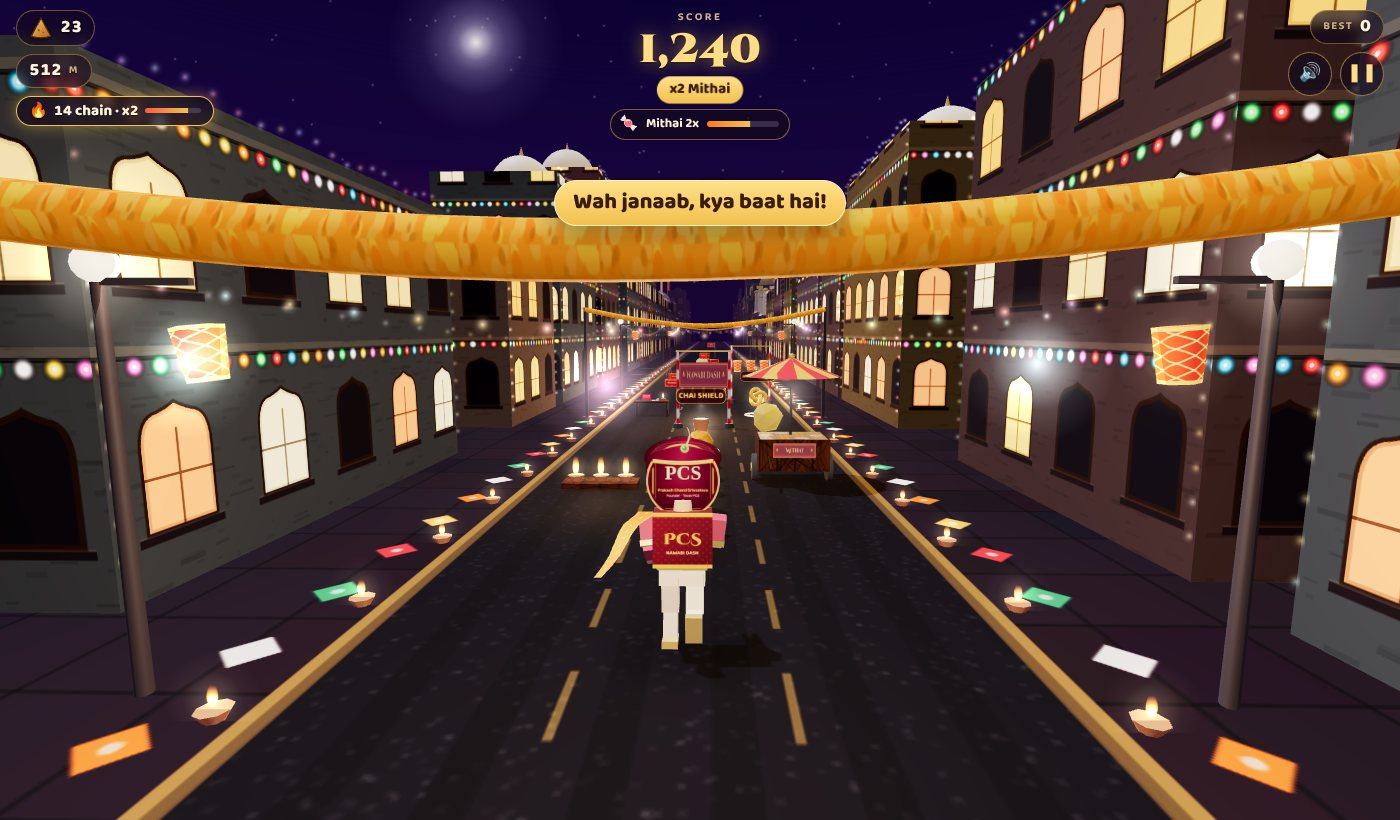
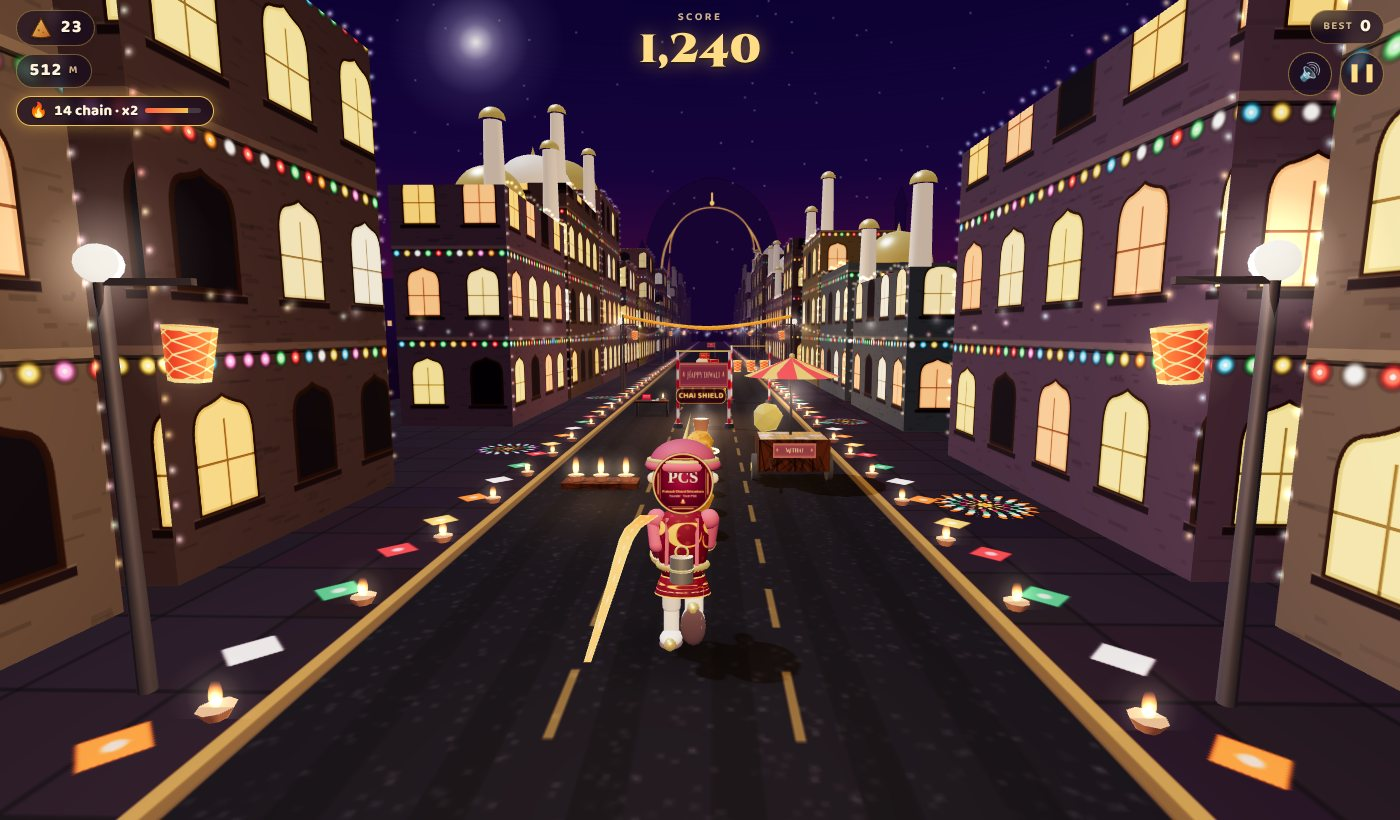
Replace the blocky runner with a Subway-Surfers-style figure
- Rounded capsule limbs, big round hands, chunky sneakers with gold
  toes, lathe-built kurta with kamarband and Nehru collar, shoulders,
  samosa tiffin on the back with straps.
- Real 3D head with ears and a 3D Nawabi turban (dome, bands, jewel,
  plume); the photo is now a face disc kept on the camera side of the
  head so it reads from behind, during the countdown and while rolling.
- Same rig joints, so run/jump/roll/tumble animation is unchanged.

Claude-Session: https://claude.ai/code/session_01JNQaHq431QuFRiAkLPThB5

diff --git a/js/entities.js b/js/entities.js
@@ -95,14 +95,24 @@
   }
 
   /* ====================== PLAYER ====================== */
+  // rounded limb: capsule hanging from a joint at the origin (next joint centre at y = -len)
+  function capsuleGeo(r, len, radial, caps) {
+    radial = radial || 14; caps = caps || 6;
+    const pts = [];
+    for (let i = 0; i <= caps; i++) { const a = -Math.PI / 2 + (i / caps) * (Math.PI / 2); pts.push(new THREE.Vector2(Math.cos(a) * r, -len / 2 + Math.sin(a) * r)); }
+    for (let i = 0; i <= caps; i++) { const a = (i / caps) * (Math.PI / 2); pts.push(new THREE.Vector2(Math.cos(a) * r, len / 2 + Math.sin(a) * r)); }
+    return new THREE.LatheGeometry(pts, radial);
+  }
+  function limbGeo(r, len) { return capsuleGeo(r, len).translate(0, -len / 2, 0); }
+
   ND.Player = class Player {
     constructor(scene) {
       shared();
-      this.scene = scene;
+      this.scene = scene; this.camera = null;
       this.group = new THREE.Group(); scene.add(this.group);          // lane x, jump y, lean/bank
       this.pivot = new THREE.Group(); this.pivot.position.y = 0.9; this.group.add(this.pivot);   // roll / tumble pivot
       this.body = new THREE.Group(); this.body.position.y = -0.9; this.pivot.add(this.body);     // feet origin, squash/stretch
-      this.rig = new THREE.Group(); this.body.add(this.rig);           // procedural meshes (hidden when a GLB model is used)
+      this.rig = new THREE.Group(); this.body.add(this.rig);           // procedural figure (hidden when a GLB model is used)
       this.onLand = null; this.model = null; this.mixer = null; this.headBone = null;
       this._v = new THREE.Vector3(); this._v2 = new THREE.Vector3();
       this.build();
@@ -112,47 +122,82 @@
       this.reset();
     }
 
+    // Subway-Surfers proportions: big head, chunky hands and shoes, rounded limbs
     build() {
       const T = ND.tex, Rg = this.rig;
       const std = (o) => new THREE.MeshStandardMaterial(o);
-      const sherwani = std({ map: T.sherwani(), roughness: 0.75 });
-      const sleeve = std({ color: 0x8f1f36, roughness: 0.75 });
-      const churidar = std({ color: 0xf1e4c8, roughness: 0.85 });
-      const skin = std({ color: 0xd9a066, roughness: 0.7 });
-      const mojari = std({ color: 0xf2c14e, roughness: 0.4, metalness: 0.5 });
-      const mesh = (geo, m, x, y, z, parent) => { const o = new THREE.Mesh(geo, m); o.position.set(x, y, z); o.castShadow = true; (parent || Rg).add(o); return o; };
-      const box = (w, h, d, m, x, y, z, parent) => mesh(new THREE.BoxGeometry(w, h, d), m, x, y, z, parent);
+      const kurtaTex = T.sherwani(); kurtaTex.wrapS = THREE.RepeatWrapping; kurtaTex.repeat.x = 2; kurtaTex.offset.x = 0.5; kurtaTex.needsUpdate = true;
+      const mat = {
+        kurta: std({ map: kurtaTex, roughness: 0.7, side: THREE.DoubleSide }),
+        maroon: std({ color: 0x8f1f36, roughness: 0.7 }),
+        turban: std({ color: 0x6a1628, roughness: 0.6 }),
+        cream: std({ color: 0xf1e4c8, roughness: 0.85 }),
+        skin: std({ color: 0xdba36f, roughness: 0.65 }),
+        shoe: std({ color: 0xf7eedc, roughness: 0.5 }),
+        sole: std({ color: 0x2a1a1f, roughness: 0.9 }),
+        steel: std({ color: 0xd4d8dd, roughness: 0.28, metalness: 0.85 }),
+        emerald: std({ color: 0x17a77a, roughness: 0.3, emissive: 0x0a5a40, emissiveIntensity: 0.4 })
+      };
+      const add = (geo, m, x, y, z, parent) => { const o = new THREE.Mesh(geo, m); o.position.set(x, y, z); o.castShadow = true; (parent || Rg).add(o); return o; };
       const pivotAt = (x, y, z, parent) => { const p = new THREE.Group(); p.position.set(x, y, z); (parent || Rg).add(p); return p; };
+      const torus = (r, t, seg) => new THREE.TorusGeometry(r, t, 10, seg || 28).rotateX(Math.PI / 2);
 
-      this.pelvis = box(0.62, 0.26, 0.38, churidar, 0, 0.98, 0);
-      this.torso = box(0.8, 0.74, 0.46, sherwani, 0, 1.47, 0);
-      box(0.68, 0.1, 0.42, M.gold, 0, 1.12, 0);
-      this.neck = mesh(new THREE.CylinderGeometry(0.12, 0.14, 0.16, 10), skin, 0, 1.9, 0);
+      // torso: a rounded kurta (lathe), flattened front-to-back
+      const torsoPts = [[0, 0.9], [0.26, 0.9], [0.3, 1.02], [0.345, 1.28], [0.36, 1.5], [0.335, 1.7], [0.24, 1.82], [0.1, 1.86], [0, 1.86]].map(([x, y]) => new THREE.Vector2(x, y));
+      const torsoGeo = new THREE.LatheGeometry(torsoPts, 22); torsoGeo.scale(1, 1, 0.74);
+      this.torso = add(torsoGeo, mat.kurta, 0, 0, 0);
+      const hemGeo = new THREE.CylinderGeometry(0.3, 0.39, 0.26, 20, 1, true); hemGeo.scale(1, 1, 0.74);
+      this.pelvis = add(hemGeo, mat.kurta, 0, 0.84, 0);
+      add(torus(0.33, 0.045).scale(1, 1, 0.74), M.gold, 0, 1.1, 0);          // kamarband
+      add(torus(0.15, 0.045, 20), mat.turban, 0, 1.85, 0);                     // nehru collar
+      this.neck = add(new THREE.CylinderGeometry(0.1, 0.11, 0.16, 12), mat.skin, 0, 1.9, 0);
+      for (const s of [-1, 1]) add(new THREE.SphereGeometry(0.14, 14, 10), mat.maroon, s * 0.36, 1.72, 0);   // shoulders
+      // samosa tiffin on the back
+      const tiffin = new THREE.Group(); tiffin.position.set(0, 1.12, 0.33); tiffin.scale.setScalar(0.92); Rg.add(tiffin);
+      add(new THREE.CylinderGeometry(0.17, 0.17, 0.16, 16), mat.steel, 0, -0.1, 0, tiffin);
+      add(new THREE.CylinderGeometry(0.17, 0.17, 0.16, 16), mat.steel, 0, 0.1, 0, tiffin);
+      add(new THREE.CylinderGeometry(0.178, 0.178, 0.02, 16), M.gold, 0, 0, 0, tiffin);
+      add(new THREE.TorusGeometry(0.09, 0.018, 8, 16), M.gold, 0, 0.24, 0, tiffin);
+      for (const s of [-1, 1]) { const strap = add(new THREE.BoxGeometry(0.05, 0.62, 0.035), mat.turban, s * 0.2, 1.46, 0.24); strap.rotation.x = -0.28; }
+      // legs: thigh, shin, chunky sneaker with a gold mojari toe
       this.legs = [-1, 1].map((s) => {
-        const hip = pivotAt(s * 0.17, 0.95, 0);
-        box(0.24, 0.5, 0.26, churidar, 0, -0.25, 0, hip);
-        const knee = pivotAt(0, -0.5, 0, hip);
-        box(0.2, 0.42, 0.22, churidar, 0, -0.21, 0, knee);
-        box(0.22, 0.1, 0.36, mojari, 0, -0.45, 0.06, knee);
+        const hip = pivotAt(s * 0.16, 0.93, 0);
+        add(limbGeo(0.13, 0.44), mat.cream, 0, 0, 0, hip);
+        const knee = pivotAt(0, -0.44, 0, hip);
+        add(limbGeo(0.11, 0.4), mat.cream, 0, 0, 0, knee);
+        const shoe = add(new THREE.SphereGeometry(1, 16, 12), mat.shoe, 0, -0.43, 0.07, knee); shoe.scale.set(0.16, 0.11, 0.27);
+        const sole = add(new THREE.SphereGeometry(1, 16, 12), mat.sole, 0, -0.5, 0.07, knee); sole.scale.set(0.165, 0.05, 0.275);
+        add(new THREE.SphereGeometry(0.085, 10, 8), M.gold, 0, -0.45, 0.3, knee);
         return { hip, knee };
       });
+      // arms: upper arm, forearm with gold cuff, big round hand
       this.arms = [-1, 1].map((s) => {
-        const sh = pivotAt(s * 0.5, 1.75, 0);
-        box(0.2, 0.38, 0.2, sleeve, 0, -0.19, 0, sh);
-        box(0.22, 0.08, 0.22, M.gold, 0, -0.36, 0, sh);
-        const el = pivotAt(0, -0.38, 0, sh);
-        box(0.17, 0.34, 0.17, sleeve, 0, -0.17, 0, el);
-        box(0.16, 0.14, 0.16, skin, 0, -0.4, 0, el);
-        sh.rotation.z = -s * 0.12;
+        const sh = pivotAt(s * 0.4, 1.7, 0);
+        add(limbGeo(0.1, 0.34), mat.maroon, 0, 0, 0, sh);
+        const el = pivotAt(0, -0.34, 0, sh);
+        add(limbGeo(0.09, 0.3), mat.maroon, 0, 0, 0, el);
+        add(torus(0.1, 0.03, 16), M.gold, 0, -0.27, 0, el);
+        add(new THREE.SphereGeometry(0.13, 14, 10), mat.skin, 0, -0.38, 0, el);
+        sh.rotation.z = -s * 0.14;
         return { sh, el };
       });
-      // the face: a billboard sprite (photo + Nawabi turban)
-      this.head = new THREE.Sprite(new THREE.SpriteMaterial({ map: T.faceSprite(T.monogram()), transparent: true }));
-      this.head.scale.set(1.3, 1.3, 1); this.head.position.set(0, 2.36, 0); this.body.add(this.head);
-      this.headY = 2.36;
+      // head: a real sphere with ears and a 3D turban; the photo is a disc kept on the camera side
+      this.headGroup = new THREE.Group(); this.headGroup.position.set(0, 2.3, 0); this.body.add(this.headGroup);
+      this.headY = 2.3; this.headR = 0.45;
+      this.headMesh = add(new THREE.SphereGeometry(0.42, 24, 18), mat.skin, 0, 0, 0, this.headGroup);
+      for (const s of [-1, 1]) add(new THREE.SphereGeometry(0.08, 10, 8), mat.skin, s * 0.41, -0.02, 0, this.headGroup);
+      const tb = new THREE.Group(); tb.position.y = 0.17; this.headGroup.add(tb);
+      const dome = add(new THREE.SphereGeometry(0.47, 22, 14, 0, Math.PI * 2, 0, Math.PI / 2), mat.turban, 0, 0, 0, tb); dome.scale.set(0.98, 0.74, 0.98);
+      add(torus(0.45, 0.07), mat.maroon, 0, 0, 0, tb);
+      add(torus(0.465, 0.032), M.gold, 0, 0.065, 0, tb);
+      add(new THREE.SphereGeometry(0.07, 10, 8), mat.emerald, 0, 0.2, -0.43, tb);
+      add(new THREE.TorusGeometry(0.1, 0.02, 8, 16), M.gold, 0, 0.2, -0.43, tb);
+      const plume = add(new THREE.ConeGeometry(0.035, 0.42, 8), M.gold, 0.05, 0.5, -0.4, tb); plume.rotation.x = -0.35; plume.rotation.z = -0.2;
+      this.head = new THREE.Sprite(new THREE.SpriteMaterial({ map: T.faceSprite(T.monogram(), { turban: false }), transparent: true }));
+      this.head.scale.set(1.02, 1.02, 1); this.scene.add(this.head);
       // effects live on the group so they don't roll with the body
-      this.shield = new THREE.Mesh(new THREE.SphereGeometry(1.4, 24, 16), new THREE.MeshBasicMaterial({ color: 0xffd27a, transparent: true, opacity: 0.2, blending: THREE.AdditiveBlending, depthWrite: false, side: THREE.DoubleSide }));
-      this.shield.position.y = 1.2; this.shield.visible = false; this.group.add(this.shield);
+      this.shield = new THREE.Mesh(new THREE.SphereGeometry(1.5, 24, 16), new THREE.MeshBasicMaterial({ color: 0xffd27a, transparent: true, opacity: 0.2, blending: THREE.AdditiveBlending, depthWrite: false, side: THREE.DoubleSide }));
+      this.shield.position.y = 1.4; this.shield.visible = false; this.group.add(this.shield);
       this.shieldRing = new THREE.Mesh(new THREE.TorusGeometry(1.0, 0.05, 8, 40), new THREE.MeshBasicMaterial({ color: 0xffe6a8, transparent: true, opacity: 0.7, blending: THREE.AdditiveBlending, depthWrite: false }));
       this.shieldRing.rotation.x = Math.PI / 2; this.shieldRing.position.y = 0.12; this.shieldRing.visible = false; this.group.add(this.shieldRing);
       this.aura = new THREE.Sprite(new THREE.SpriteMaterial({ map: T.glow(), color: 0xffb347, transparent: true, opacity: 0, depthWrite: false, blending: THREE.AdditiveBlending }));
@@ -162,7 +207,7 @@
     buildRibbon() {
       const N = 8; this.ribN = N; this.ribPts = [];
       for (let i = 0; i < N; i++) this.ribPts.push(new THREE.Vector3(-0.42 - i * 0.06, 1.82, 0.2 + i * 0.16));
-      this.ribAnchor = new THREE.Object3D(); this.ribAnchor.position.set(-0.46, 1.84, 0.12); this.rig.add(this.ribAnchor);
+      this.ribAnchor = new THREE.Object3D(); this.ribAnchor.position.set(-0.44, 1.8, 0.16); this.rig.add(this.ribAnchor);
       const geo = new THREE.BufferGeometry();
       const pos = new Float32Array(N * 6), uv = new Float32Array(N * 4), nor = new Float32Array(N * 6), idx = [];
       for (let i = 0; i < N; i++) {
@@ -200,6 +245,20 @@
       this.ribbon.geometry.attributes.position.needsUpdate = true;
     }
 
+    // keep the photo disc between the head and the camera, so the face reads from behind
+    placeHead() {
+      const v = this._v;
+      if (this.model) {
+        if (this.headBone) { this.headBone.getWorldPosition(v); v.y += 0.1; }
+        else this.body.localToWorld(v.set(0, this.headY, 0));
+      } else this.headGroup.getWorldPosition(v);
+      if (this.camera) {
+        this._v2.copy(this.camera.position).sub(v).normalize();
+        v.addScaledVector(this._v2, this.model ? 0.22 : this.headR);
+      }
+      this.head.position.copy(v);
+    }
+
     /* optional rigged GLB character (e.g. Mixamo) */
     setModel(gltf) {
       const scene = gltf.scene;
@@ -212,7 +271,7 @@
       scene.position.x -= (box.min.x + box.max.x) / 2;
       scene.position.z -= (box.min.z + box.max.z) / 2;
       scene.rotation.y = Math.PI;
-      this.model = scene; this.body.add(scene); this.rig.visible = false;
+      this.model = scene; this.body.add(scene); this.rig.visible = false; this.headGroup.visible = false;
       this.mixer = new THREE.AnimationMixer(scene);
       const find = (re) => gltf.animations.find((c) => re.test(c.name));
       const clips = {
@@ -229,7 +288,8 @@
       let head = null;
       scene.traverse((o) => { if (!head && o.isBone && /head/i.test(o.name)) head = o; });
       this.headBone = head;
-      this.headY = box.max.y - (head ? 0 : 0) + 0.45;
+      this.headY = box.max.y - box.min.y + 0.3;
+      this.head.scale.set(0.9, 0.9, 1);
       this.play('run');
     }
     play(name, reset) {
@@ -244,10 +304,6 @@
       if (!this.mixer) return;
       if (this.actions.run) this.actions.run.timeScale = 0.75 + speed / 32;
       this.mixer.update(dt);
-      if (this.headBone) {
-        this.headBone.getWorldPosition(this._v); this.body.worldToLocal(this._v);
-        this.head.position.set(this._v.x, this._v.y + 0.35, this._v.z);
-      } else this.head.position.set(0, this.headY, 0);
     }
 
     setFace(tex) {
@@ -261,9 +317,10 @@
       this.dead = false; this.deadT = 0; this.phase = 0; this.t = 0; this.airT = 0;
       this.group.rotation.set(0, 0, 0); this.group.position.set(0, 0, 0);
       this.pivot.rotation.set(0, 0, 0); this.pivot.position.y = 0.9; this.body.scale.set(1, 1, 1);
-      this.head.position.y = this.headY;
+      this.headGroup.position.y = 2.3;
       this.shield.visible = false; this.shieldRing.visible = false; this.aura.material.opacity = 0;
       if (this.model) this.play('run', true);
+      this.placeHead();
     }
     setShield(on) { this.shield.visible = on; this.shieldRing.visible = on; }
     moveLane(dir) {
@@ -313,6 +370,7 @@
         g.position.set(this.x, this.y, Math.min(1.6, this.deadT * 2.4));
         this.shadow.position.set(this.x, 0.02, g.position.z);
         this.updateRibbon(dt, speed * 0.3, t);
+        this.placeHead();
         return;
       }
       this.phase += dt * (9 + speed * 0.35);
@@ -335,13 +393,13 @@
             const e = easeInOut(u / rollFrac);
             this.rolling = true;
             this.pivot.rotation.x = -Math.PI * 2 * e;
-            this.pivot.position.y = lerp(0.9, 0.62, Math.sin(e * Math.PI));
-            this.head.position.y = lerp(this.head.position.y, 1.35, k);
+            this.pivot.position.y = lerp(0.9, 0.58, Math.sin(e * Math.PI));
+            this.headGroup.position.y = lerp(this.headGroup.position.y, 1.2, k);
           } else { this.rolling = false; this.pivot.rotation.x = 0; this.pivot.position.y = 0.9; }
         }
         if (this.slideT <= 0) { this.sliding = false; this.rolling = false; this.pivot.rotation.x = 0; this.pivot.position.y = 0.9; if (this.model) this.play('run'); }
       }
-      if (!this.rolling && !this.model) this.head.position.y = lerp(this.head.position.y, this.headY, k);
+      if (!this.rolling) this.headGroup.position.y = lerp(this.headGroup.position.y, 2.3, k);
       // squash / stretch recovery
       this.body.scale.x = lerp(this.body.scale.x, 1, k); this.body.scale.y = lerp(this.body.scale.y, 1, k); this.body.scale.z = lerp(this.body.scale.z, 1, k);
       // lanes
@@ -363,6 +421,7 @@
         this.shieldRing.rotation.z += dt * 2;
       }
       this.updateRibbon(dt, speed, t);
+      this.placeHead();
     }
 
     // procedural pose: run cycle, jump tuck/extend, roll tuck, tumble flail

diff --git a/js/game.js b/js/game.js
@@ -35,6 +35,7 @@
       this.floatText = new ND.FloatText(this.scene);
       this.streaks = new ND.Streaks(this.scene, 16);
       this.player = new ND.Player(this.scene);
+      this.player.camera = this.camera;
       this.player.onLand = () => this.onLand();
       this.world.fireworks.onBurst = (x, y, z) => { if (this.state !== 'paused') ND.audio.sfx.boom(z < -140); };
       this.obstacles = []; this.pickups = [];
@@ -500,12 +501,12 @@
       if (!this.photoCanvas) return;
       const T = ND.tex;
       if (this.placement === 'hurdle') {
-        this.player.setFace(T.faceSprite(T.cartoonNawab()));
+        this.player.setFace(T.faceSprite(T.cartoonNawab(), { turban: false }));
         if (this.photoTex) this.photoTex.dispose();
         this.photoTex = T.photoTexture(this.photoCanvas);
         ND.Obs.setPhoto(this.photoTex);
       } else {
-        this.player.setFace(T.faceSprite(this.photoCanvas));
+        this.player.setFace(T.faceSprite(this.photoCanvas, { turban: false }));
         ND.Obs.setPhoto(null);
       }
     }

diff --git a/README.md b/README.md
@@ -21,6 +21,7 @@ Hinglish along the way. Pure HTML + CSS + JavaScript with Three.js. No build ste
 - **Eight obstacle types:** diya rows, anaar (sparking), patakha boxes, office desks with a DEADLINE laptop (jump); torans and kandil rows (slide); mithai thelas and `UP 32` autos (change lane).
 - **Diwali-night Lucknow:** lit Awadhi facades with string lights, domes and minarets, kerb diyas, rangolis, marigold torans, paper lanterns, a hazy Rumi-Darwaza skyline, rockets and fireworks.
 - **Lucknowi Hinglish everywhere:** taglines, praise for samosa streaks, near-miss lines, milestone shout-outs (Hazratganj, Rumi Darwaza, Bhool Bhulaiya, Gomti...), game-over banners and ranks from *Aminabad Rookie* to *Nawab-e-Lucknow*.
+- **A Subway-Surfers-style figure:** big head, chunky hands and sneakers, rounded limbs, kurta with gold trim, a 3D Nawabi turban, a samosa tiffin on the back. The photo is a face disc that always faces the camera, so the runner reads from behind.
 - **Game feel:** articulated runner with a real run cycle, jump tuck, forward-roll slide and tumble crash; trailing dupatta; squash and stretch on landings; 3-2-1 countdown with an intro camera swing; hit-stop and slow motion on a crash; camera bank, FOV kicks and speed streaks; samosas fly into the HUD counter; input buffering so a jump pressed just before landing still fires.
 - **Samosa chains:** keep collecting without a gap and the multiplier climbs (x2 at 10, x3 at 20, x4 at 30). Stacks with Mithai 2x.
 - **Tutorial prompts** on your first two runs ("Kood jaiye!", "Slide kijiye!", "Lane badliye!") timed to the first obstacle of each kind.
